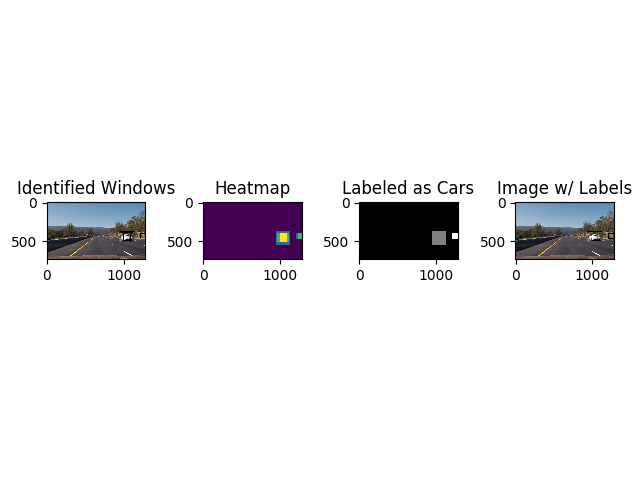
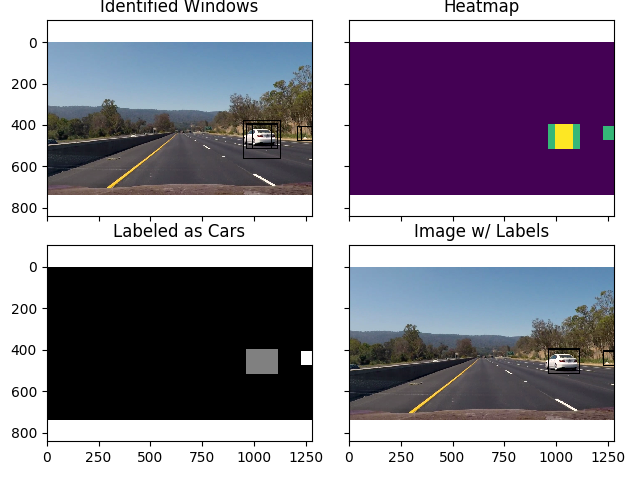
better heatmap rendering

diff --git a/video_pipeline.py b/video_pipeline.py
@@ -90,7 +90,7 @@ def multi_img_process_pipeline(images, svc, scaler, color_space, spatial_size, h
         # Get the heatmap
         heatmap = np.zeros_like(img[:, :, 0]).astype(np.float)
         heatmap = add_heat(heatmap, boxes.allboxes)
-        heatmap = apply_threshold(heatmap, 0)
+        heatmap = apply_threshold(heatmap, 1)
 
         # Identify how many cars found
         labels = label(heatmap)
@@ -113,7 +113,7 @@ def multi_img_process_pipeline(images, svc, scaler, color_space, spatial_size, h
         if saveFig:
             # Plot
             plt.figure()
-            f, (ax1, ax2, ax3, ax4) = plt.subplots(1, 4)
+            f, ((ax1, ax2), (ax3, ax4)) = plt.subplots(2, 2, sharex='col', sharey='row')
             f.tight_layout()
             ax1.imshow(window_img)
             ax1.set_title('Identified Windows')
@@ -132,7 +132,7 @@ def video_search():
     color_space, svc, stack, scaler, orient, hist_bins, spatial_size, pix_per_cell, \
     cell_per_block, hog_channel = load_hog_pickle()
 
-    # Load sample images from the video
+    # # Load sample images from the video
     # images = glob.glob('./video_img/*.png')
     #
     # # Run pipeline on test images
@@ -177,10 +177,10 @@ def video_search():
 
         return draw_img
 
-    # Load sample images from the video
+    # # Load sample images from the video
     # images = glob.glob('./video_img/*.png')
     #
-    # Run pipeline on test images
+    # # Run pipeline on test images
     # for i, img in enumerate(images[5:15]):
     #     img = mpimg.imread(img)
     #     draw_img = process_image(img, video=False)
